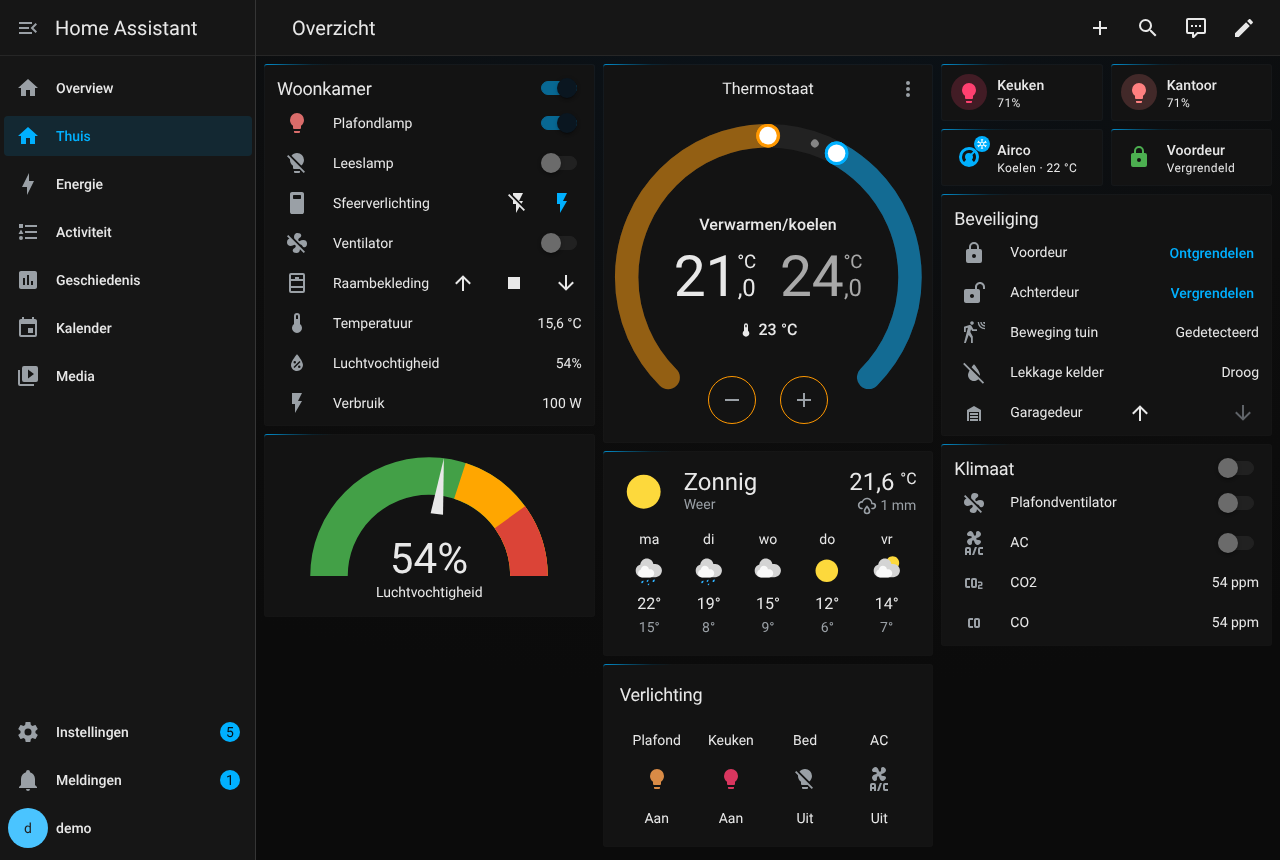
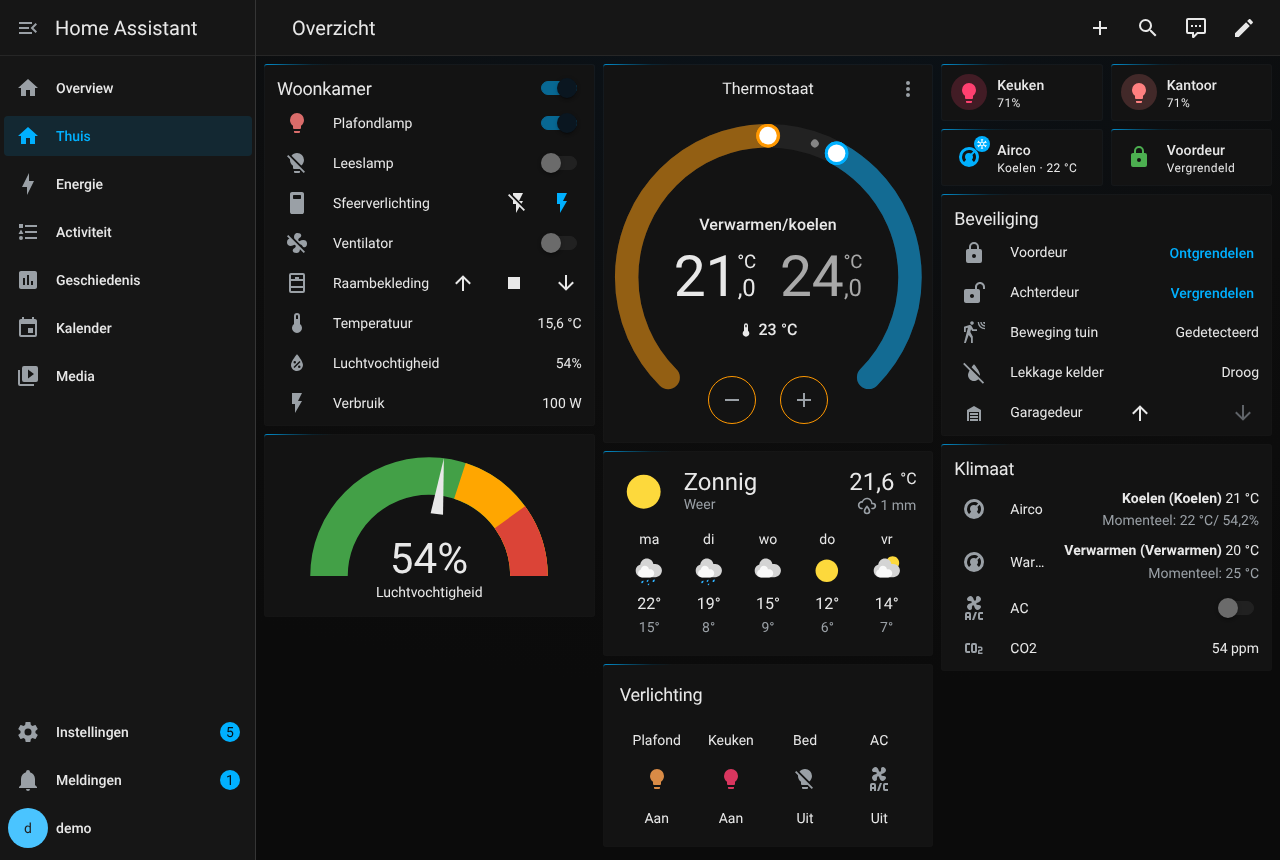
Let entity rows grow instead of overlapping at a fixed 32px
The fixed `height: 32px` on hui-generic-entity-row clipped any row whose
content is taller than one line: a climate state on two lines,
secondary_info, a number input box or a select dropdown all ran over
the next row.

Rows now get `min-height: 32px` and grow with their content. The things
that made a plain row taller than 32px are handled separately: the
state-badge shrinks from 40px to 32px, and the toggle and cover/media
buttons keep their 40-48px tap area but get a negative block margin so
it no longer sets the row height. Single-line rows stay 32px.

Screenshots retaken with the climate rows back in the Klimaat card.

Claude-Session: https://claude.ai/code/session_017m5WBAKCG499LFapbTeH7Y

Changed region(s): [[0.75, 0.514, 1.0, 0.7558]]

diff --git a/README.md b/README.md
@@ -45,7 +45,9 @@ Automatisch, Licht of Donker.
 - Kleurpalet voor HA 2025.8+ (`ha-color-primary-*`) en grafiekkleuren.
 - Afgestemde syntax-highlighting per theme en modus.
 - In de lichte modus haalt tekst in de accentkleur minimaal 4.5:1 contrast.
-- Compacte rijen (32px) en compactere kaart-padding via card-mod.
+- Compacte rijen (minimaal 32px) en compactere kaart-padding via card-mod.
+  Rijen met hogere inhoud, zoals een status op twee regels, `secondary_info`,
+  een invoerveld of een dropdown, groeien mee in plaats van te overlappen.
 
 ## Vereisten
 
